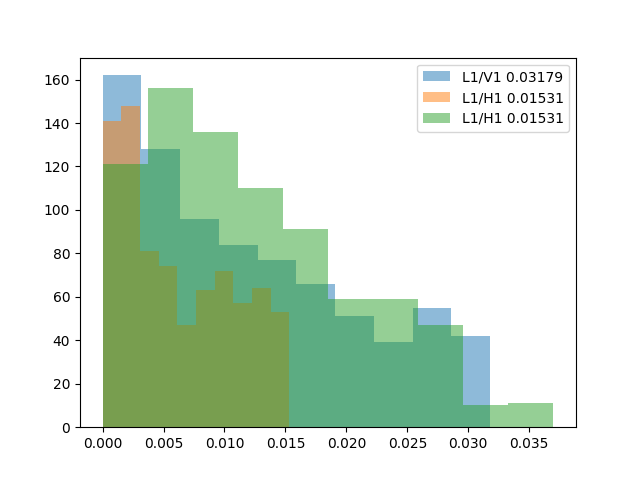
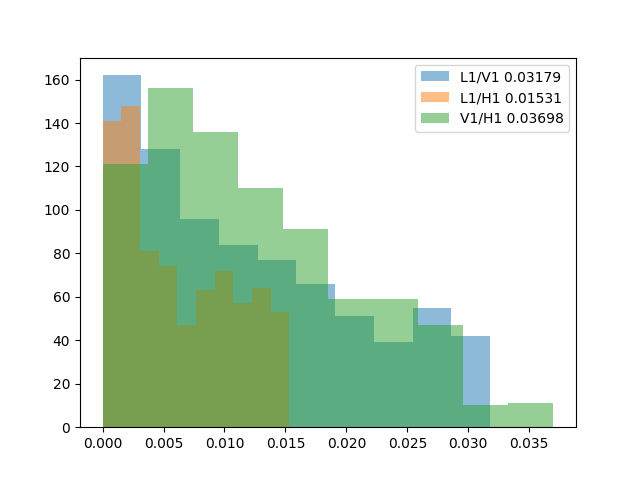
fixed plotting label in histogram

Changed region(s): [[0.7188, 0.125, 0.875, 0.2812]]

diff --git a/plot_maker.py b/plot_maker.py
@@ -69,7 +69,7 @@ def histo_plotter(array1, array2, array3):
     
     plt.hist(array1.flatten(), alpha=0.5, label=lab1)
     plt.hist(array2.flatten(), alpha=0.5, label=lab2)
-    plt.hist(array3.flatten(), alpha=0.5, label=lab2)
+    plt.hist(array3.flatten(), alpha=0.5, label=lab3)
     plt.legend(loc='upper right')
     plt.savefig("plots/{}.png".format("differences"))
     plt.close()
